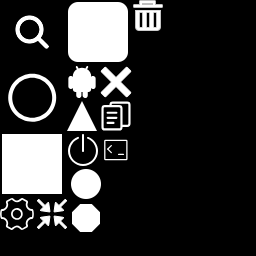
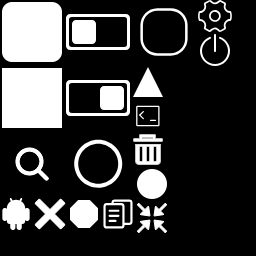
setting

diff --git a/Assets/DebugConsoleFairyGUI/Scripts/UIDebugConsoleSetting.cs b/Assets/DebugConsoleFairyGUI/Scripts/UIDebugConsoleSetting.cs
@@ -7,6 +7,55 @@ namespace DebugConsoleFairyGUI
 {
     public class UIDebugConsoleSetting : Window
     {
+        // DebugConsole 实例
+        private DebugConsole manager;
 
+        #region component
+        private GButton m_singleShowBtn;
+        private GButton m_logcatBtn;
+        private GButton m_btnClose;
+        #endregion
+
+        public UIDebugConsoleSetting(DebugConsole mgr)
+        {
+            manager = mgr;
+        }
+
+        protected override void OnInit()
+        {
+            contentPane = UIPackage.CreateObject(LogConst.UI_PACKAGE_NAME, "setting_panel").asCom;
+            contentPane.SetSize(GRoot.inst.width, GRoot.inst.height);
+        }
+
+        protected override void OnShown()
+        {
+            m_singleShowBtn = contentPane.GetChild("single_show_btn").asButton;
+            m_singleShowBtn.onClick.Set(OckSingle);
+
+            m_logcatBtn = contentPane.GetChild("logcat_btn").asButton;
+            m_logcatBtn.onClick.Set(OckLogcat);
+
+            m_btnClose = contentPane.GetChild("title").asCom.GetChild("close_btn").asButton;
+            m_btnClose.onClick.Set(OckClose);
+
+            //TODO INIT
+        }
+
+        // 设置单独界面展示日志详情
+        private void OckSingle()
+        {
+            manager.singleShow = m_singleShowBtn.selected;
+        }
+
+        // 设置接收Logcat日志
+        private void OckLogcat()
+        {
+            manager.receivedLogcat = m_logcatBtn.selected;
+        }
+
+        private void OckClose()
+        {
+            Hide();
+        }
     }
 }

diff --git a/Assets/DebugConsoleFairyGUI/Scripts/UIDebugConsole.cs b/Assets/DebugConsoleFairyGUI/Scripts/UIDebugConsole.cs
@@ -17,6 +17,8 @@ namespace DebugConsoleFairyGUI
 
         // 日志详情界面
         private UIDebugConsoleDetail m_detailUI;
+        // 日志设置界面
+        private UIDebugConsoleSetting m_settingUI;
 
         #region component
 
@@ -171,7 +173,7 @@ namespace DebugConsoleFairyGUI
                 countText.text = data.logCount.ToString();
             }
 
-            if (manager.single && data.selected)
+            if (!manager.singleShow && data.selected)
             {
                 contentText.autoSize = AutoSizeType.Height;
                 contentText.text = data.ToString();
@@ -202,7 +204,7 @@ namespace DebugConsoleFairyGUI
             LogEntry data = item.data as LogEntry;
 
             // 显示日志详情界面
-            if (!manager.single)
+            if (manager.singleShow)
             {
                 if (m_detailUI == null)
                 {
@@ -311,7 +313,11 @@ namespace DebugConsoleFairyGUI
 
         private void OckSetting()
         {
-
+            if(m_settingUI == null)
+            {
+                m_settingUI = new UIDebugConsoleSetting(manager);
+            }
+            m_settingUI.Show();
         }
 
         private void OckClose()

diff --git a/Assets/DebugConsoleFairyGUI/Scripts/DebugConsole.cs b/Assets/DebugConsoleFairyGUI/Scripts/DebugConsole.cs
@@ -89,7 +89,12 @@ namespace DebugConsoleFairyGUI
 
         #region setting
         // 单一条条目选中显示日志详情
-        public bool single = false;
+        [HideInInspector]
+        public bool singleShow = false;
+
+        // 接收Logcat日志
+        [HideInInspector]
+        public bool receivedLogcat = false;
         
         #endregion
 
